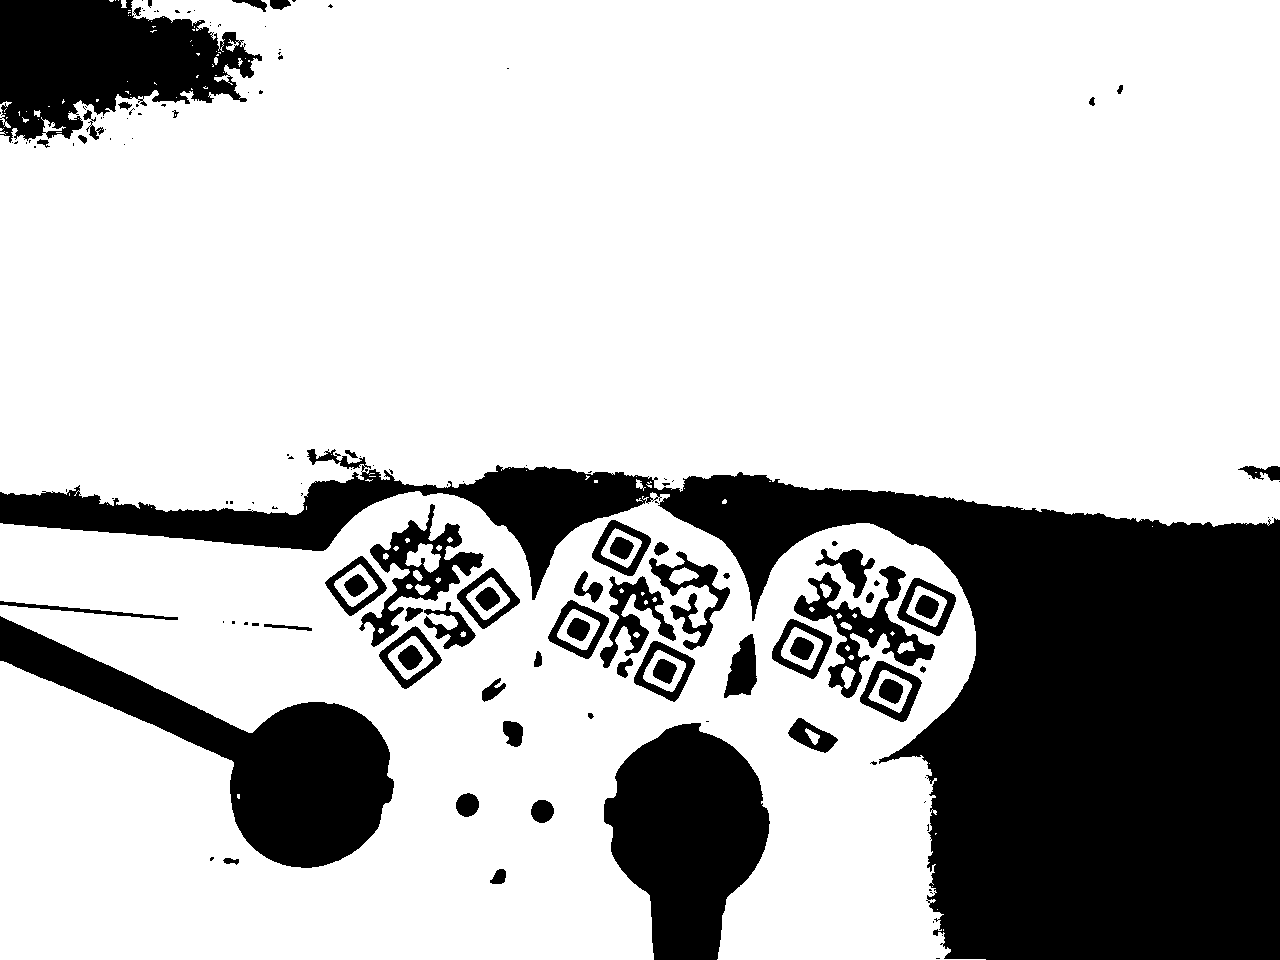
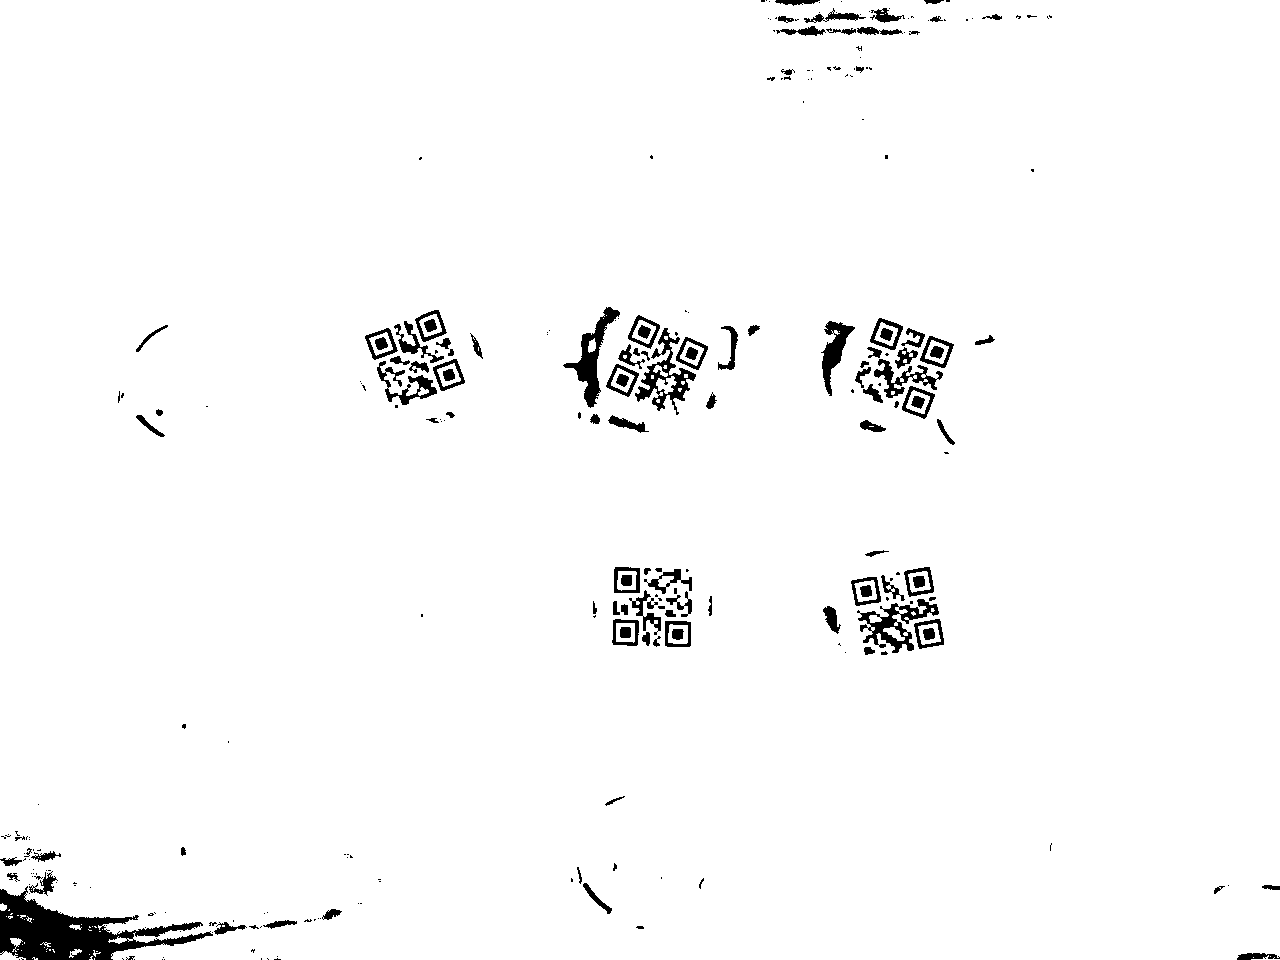
Ajout de la methode pour retrouver des point 3D a partir d'image 2D

diff --git a/final_project/code/camera.py b/final_project/code/camera.py
@@ -46,7 +46,9 @@ def reduce_image_noise(image_path):
     image = cv2.imread(image_path)
 
     # Appliquer un filtre gaussien pour réduire le bruit
-    denoised_image = cv2.medianBlur(image,5)
+    #denoised_image = cv2.medianBlur(image, 30)
+    #denoised_image = cv2.GaussianBlur(image, (5, 5), 0)
+    denoised_image = cv2.bilateralFilter(image,9,75,75)
 
     # Enregistrer l'image traitée
     cv2.imwrite("final_project/image/denoised_image.png", denoised_image)
@@ -117,9 +119,18 @@ def decode_QR_code(image_path):
                 print("Decoded text:", obj.data.decode('utf-8'))
 
                 # Print corner points
-                print("The four corners of the QR code are:")
-                for i, point in enumerate(points):
-                    print(f"Point {i+1}: ({point.x}, {point.y})")
+                #print("The four corners of the QR code are:")
+                #for i, point in enumerate(points):
+                #    print(f"Point {i+1}: ({point.x}, {point.y})")
+                    
+                # === Calcul du centre ===
+                cx = sum(point.x for point in points) / 4
+                cy = sum(point.y for point in points) / 4
+                center = (int(cx), int(cy))
+                print(f"Centre du QR code : ({center[0]}, {center[1]})")
+                
+                # Dessiner le centre sur l'image
+                cv2.circle(image, center, 5, (255, 0, 255), -1)  # Rose/violet
 
                 # Orientation angle: vector from point 1 to point 4
                 p1 = points[0]
@@ -130,7 +141,7 @@ def decode_QR_code(image_path):
                 angle_rad = math.atan2(dy, dx)
                 angle_deg = math.degrees(angle_rad)
 
-                print(f"Orientation angle: {angle_deg:.2f}°")
+                #print(f"Orientation angle: {angle_deg:.2f}°")
 
                 # Draw the angle line and arrow on image (optional)
                 cv2.arrowedLine(image, (p1.x, p1.y), (p4.x, p4.y), (0, 0, 255), 2, tipLength=0.2)
@@ -148,11 +159,12 @@ if __name__ == "__main__":
     # Réduire le bruit de l'image capturée
     reduce_image_noise("final_project/image/puck_image.png")
     
-    #binariser l'image debruitée
-    binarize_image("final_project/image/denoised_image.png")
-
     # Augmenter le contraste de l'image binaire
-    increase_contrast("final_project/image/binary_image.png")
+    increase_contrast("final_project/image/denoised_image.png")
+    
+    #binariser l'image debruitée
+    #binarize_image("final_project/image/contrast_image.png")
+
     
     # Décoder le QR code de l'image capturée
     #decode_QR_code("final_project/image/QR_code_test.png")

diff --git a/final_project/code/calibration.py b/final_project/code/calibration.py
@@ -1,0 +1,65 @@
+import cv2
+import numpy as np
+
+# Points 3D connus (en mm dans le repère table)
+object_points = np.array([
+    [0, -100, 0],
+    [100, -100, 0],
+    [100, 0, 0],
+    [-100, 100, 0]
+], dtype=np.float32)
+
+# Points image correspondants (en pixels)
+image_points = np.array([
+    [902, 368],
+    [897, 612],
+    [652, 606],
+    [414, 359]
+], dtype=np.float32)
+
+# Hypothèse : on utilise une matrice de calibration fictive (à ajuster selon ton cas réel)
+focal_length = 1000  # à adapter selon ta caméra
+cx, cy = 1280 / 2, 960 / 2  # centre de l'image
+
+K = np.array([
+    [focal_length, 0, cx],
+    [0, focal_length, cy],
+    [0, 0, 1]
+], dtype=np.float64)
+
+# Pas de distorsion pour simplifier
+dist_coeffs = np.zeros((4, 1))
+
+# Estimation des paramètres via solvePnP
+success, rvec, tvec = cv2.solvePnP(object_points, image_points, K, dist_coeffs)
+
+# Affichage des résultats
+print("Matrice de calibration (K) :")
+print(K)
+
+
+
+# Matrice de rotation et vecteur de translation (exemple)
+R = np.eye(3)  # Caméra orientée comme le monde
+t = np.array([[0], [0], [500]])  # Caméra à l'origine
+
+# Coordonnée image (pixel)
+image_point = np.array([[740, 480]], dtype='float32')  # centre de l'image
+
+# Si on suppose que Z = 0 (objet sur le sol)
+object_points = np.array([
+    [0, 0, 0],  # point 3D supposé (plan du sol)
+], dtype='float32')
+
+# On utilise solvePnP pour retrouver la pose si on a plusieurs points
+success, rvec, tvec = cv2.solvePnP(
+    objectPoints=object_points,
+    imagePoints=image_point,
+    cameraMatrix=K,
+    distCoeffs=None,
+    flags=cv2.SOLVEPNP_ITERATIVE
+)
+
+# Reprojection (pour vérifier)
+projected_point, _ = cv2.projectPoints(object_points, rvec, tvec, K, None)
+print("Point reprojeté :", projected_point)

diff --git a/final_project/document/reconstruction_2D_3D.md b/final_project/document/reconstruction_2D_3D.md
@@ -64,28 +64,53 @@ Dans ce cas, on peut reconstruire la position réelle du point ainsi :
 
 ---
 
-### Estimation de la matrice intrinsèque $\mathbf{K}$
+### Calibration de caméra sans échiquier
 
-Pour estimer $\mathbf{K}$, on procède à une **calibration de caméra** :
+Il est possible de calibrer une caméra **sans utiliser de motif d’échiquier**, à condition de disposer de plusieurs images avec :
 
-1. On imprime un motif connu (ex : **échiquier**).
-2. On prend plusieurs photos du motif sous différents angles.
-3. On détecte automatiquement les coins du motif (fonction `cv2.findChessboardCorners`).
-4. On utilise `cv2.calibrateCamera()` pour estimer :
-   - Les paramètres intrinsèques $\mathbf{K}$,
-   - Les distorsions optiques,
-   - Et éventuellement la position de la caméra pour chaque image.
+- Des **points 3D connus** dans un repère fixe (monde/table/etc.)
+- Les **projections 2D** correspondantes dans l’image (pixels)
+
+---
+
+#### Conditions nécessaires
+
+1. **Plusieurs images** (au moins 10, idéalement)
+2. Au moins **6–8 points** bien répartis dans chaque image
+3. Les points doivent être vus **sous différents angles** (pas toujours la même position de la caméra)
+4. Les points doivent être **non-coplanaires** si possible (ou bien répartis dans l'image si en 2D)
+
+---
+
+#### Étapes du pipeline
+
+1. Pour chaque image :
+   - Identifier les points 3D réels (en mm, cm…)
+   - Repérer les points 2D correspondants dans l’image (en pixels)
+
+2. Remplir deux listes :
+   - `object_points_list` : liste des points 3D par image
+   - `image_points_list` : liste des points 2D par image
+
+3. Appliquer la fonction OpenCV :
 
 ```python
-# Exemple de calibration
 ret, K, dist, rvecs, tvecs = cv2.calibrateCamera(
-    objectPoints=real_world_points,  # Ex : grille 3D des coins
-    imagePoints=detected_corners,    # Coins détectés dans les images
-    imageSize=(width, height),       # Taille des images
+    object_points_list,
+    image_points_list,
+    image_size=(width, height),
     cameraMatrix=None,
     distCoeffs=None
 )
 ```
+
+4. Récupérer :
+
+    `K` : matrice de calibration (intrinsèques)
+
+    `dist` : coefficients de distorsion
+
+    `rvecs, tvecs` : poses de la caméra pour chaque image
 
 ## Conclusion
 
